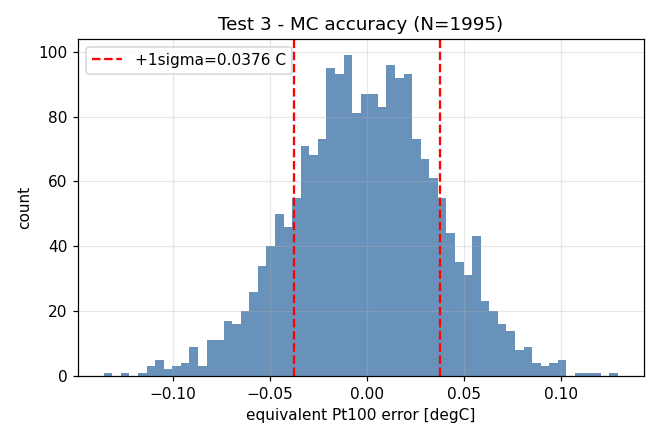
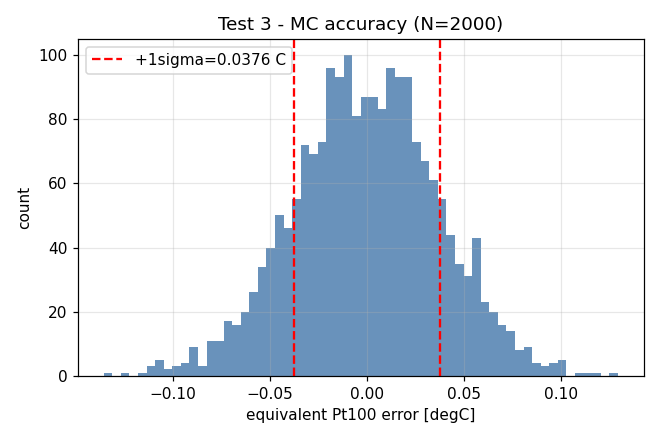
sim: official rev-D SPICE run (7/7 PASS; test5 now models fitted filters)
Monte-Carlo report refreshed (new random draws, statistics unchanged:
sigma ~0.038 C, tempco-dominated). test5 deck RF=1k/CF=0.1u == R7-R14/C5-C8.

diff --git a/reports/sim/test3_montecarlo.md b/reports/sim/test3_montecarlo.md
@@ -4,7 +4,7 @@
 Acceptance (c): over board dT the accuracy is dominated by R_ref tempco + relative ADC gain tempco, within target.
 
 ## Setup
-Deck test3_montecarlo.cir; N=1995 Gaussian samples; dT=10 C; sigmas R_ref/gain=10/10 ppm/C, offset=1 uV; cross-cal C verified = R_ref0 = 910 Ohm.
+Deck test3_montecarlo.cir; N=2000 Gaussian samples; dT=10 C; sigmas R_ref/gain=10/10 ppm/C, offset=1 uV; cross-cal C verified = R_ref0 = 910 Ohm.
 
 ## Method
 Per sample: cross-cal at dt=0, then op at dt with sampled tempco/offset; fractional error -> Pt100 degC via x255.9.